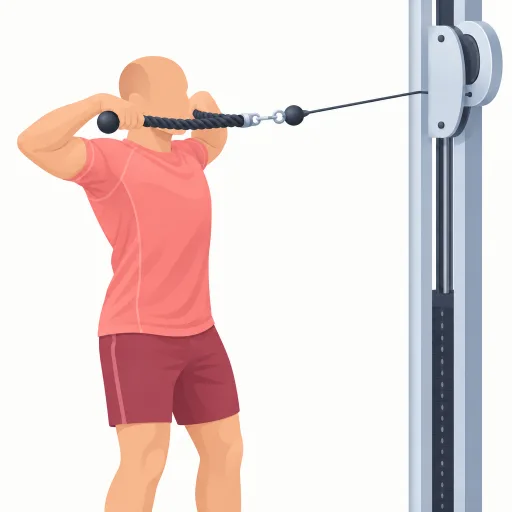
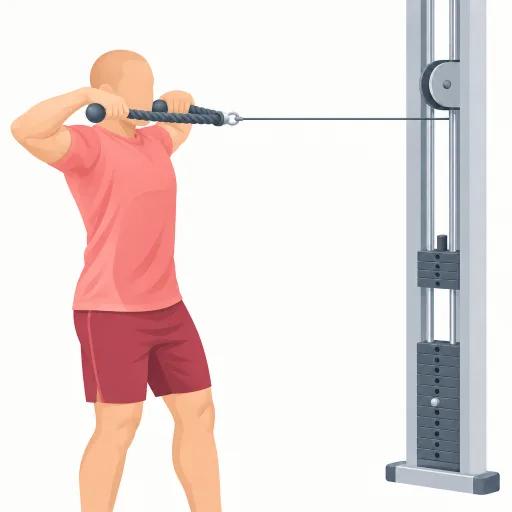
Repetir ilustraciones: face pull, jalón cerrado, pullover, remo en máquina, remo invertido y elevaciones laterales en polea

diff --git a/CLAUDE.md b/CLAUDE.md
@@ -90,5 +90,5 @@ Primero PWA para uso propio; después App Store (iPhone). Si funciona, se podrí
 ## Imágenes de ejercicios
 
 - **Cómo se generan:** a partir de las dos fotos (posición inicial y final) de free-exercise-db (dominio público, Unlicense), redibujadas con OpenAI (`images.edit`, el mismo modelo y la misma clave que usa china-history, en `china-history-api/.env`; la clave solo se usa en local, nunca en el repo ni en la app). La imagen inicial sale de la foto 0 y la final de la ilustración inicial más la foto 1, para que figura y encuadre no cambien entre las dos. Estilo: ilustración plana, atleta sin cara con camiseta salmón y pantalón rosa oscuro, material en gris azulado, **sin fondo de gimnasio** y solo el material del ejercicio (sacarlo del campo `equipment`; si se lista material genérico en el prompt, el modelo lo dibuja todo).
-- **Dónde viven:** `apps/mobile/assets/exercises/<nombre-del-ejercicio>_0.webp` y `_1.webp`, a 512 px y unos 12 KB cada una, y se registran por nombre en `lib/exercise-images.ts`. De momento hay 46: todo Pecho, buena parte de Espalda y de Hombros (hasta el press Arnold, sin «Remo pendlay» ni «Elevaciones frontales con barra», que no tienen equivalente fiable en free-exercise-db) más los encogimientos de hombros con barra (la lista completa está en `lib/exercise-images.ts`; «Dominadas asistidas en máquina» se hizo a partir de las fotos de dominadas con una máquina con plataforma para las rodillas, porque free-exercise-db solo tiene la versión con banda). Repetidas tras revisarlas: cruces en polea, encogimientos con barra, jalón tras nuca, pesos muertos, remo en máquina y elevaciones laterales en polea. Lecciones: en las máquinas de polea se dibuja la pila de pesas (en la segunda imagen las placas de arriba suben y se ve un hueco; sin pila no se entendía), agarres descritos como un cable simple, y en los pesos muertos «cuerpo entero con los pies visibles»; el peso muerto se alinea por los pies y se reduce (0,82, anclado abajo) en vez de recortar la cabeza. Los nueve primeros, de Pecho: press de banca con barra, con mancuernas y con agarre cerrado, fondos en paralelas, aperturas con mancuernas (Dumbbell Flyes), aperturas inclinadas (Incline Dumbbell Flyes), contractora (Butterfly), cruces en polea (Cable Crossover) y flexiones de brazos (Pushups); el registro está en `lib/exercise-images.ts`. **Sin suelo** en el prompt (si se dibuja una línea de suelo, cambia entre las dos imágenes y «se mueve»). **Regla de alineado automático** (mitad inferior del encuadre si el ejercicio tiene banco o pies fijos; imagen entera en máquinas; parte superior en dominadas): se acepta la imagen alineada solo si el error baja a menos de la mitad, la escala cambia como mucho un 20 %, el desplazamiento horizontal no pasa de 40 px y el vertical de 70; si no, se deja la imagen sin tocar. **Revisar la imagen final aunque el alineado se acepte**: en el peso muerto rumano y el press Arnold el ajuste (con escala 1,09-1,11) cortaba la cabeza o las mancuernas por el borde y se dejaron sin alinear a mano. Se genera una hoja con todas las superposiciones para revisarlas de un vistazo. **El alineado automático no siempre mejora**: en las flexiones, donde cambia la figura entera y no hay zona quieta, encogía la figura (escala 0,925) y descolocaba las manos; ahí se dejó la segunda imagen sin alinear. Comprobar siempre la superposición antes y después y quedarse con la mejor. **Imágenes sin menú de iOS:** al mantener pulsada una imagen, iOS abre una vista ampliada para copiarla y marca un marco; se evita con `pointerEvents: none`, `userSelect: none` y `-webkit-touch-callout: none` en la imagen (`exercise-motion.tsx`), en el recuadro y en `global.css`. En el prompt hay que indicar el material exacto de cada ejercicio. Al alinear, la zona de comparación es la mitad inferior en los press de banca; en los fondos, donde se mueve casi todo el cuerpo, se usa la imagen entera y lo que acaba coincidiendo es la estructura de barras. El resto se hará en tandas cuando guste el resultado. **Alinear la imagen final con la inicial:** aunque se pase la ilustración inicial como referencia, el modelo recoloca un poco la escena (en el press de banca, ~17 px en vertical) y al alternarlas parece que el banco sube y baja. Se corrige a posteriori: se busca el desplazamiento y la escala de la imagen final que mejor encajan con la inicial sobre la zona casi inmóvil (mitad inferior: banco y pies) y se re-renderiza desplazada; el error de coincidencia bajó de 1327 a 113. Hacerlo para cada ejercicio nuevo antes de guardarlo. Pendiente: emparejar los 133 nombres del catálogo con los de free-exercise-db.
+- **Dónde viven:** `apps/mobile/assets/exercises/<nombre-del-ejercicio>_0.webp` y `_1.webp`, a 512 px y unos 12 KB cada una, y se registran por nombre en `lib/exercise-images.ts`. De momento hay 46: todo Pecho, buena parte de Espalda y de Hombros (hasta el press Arnold, sin «Remo pendlay» ni «Elevaciones frontales con barra», que no tienen equivalente fiable en free-exercise-db) más los encogimientos de hombros con barra (la lista completa está en `lib/exercise-images.ts`; «Dominadas asistidas en máquina» se hizo a partir de las fotos de dominadas con una máquina con plataforma para las rodillas, porque free-exercise-db solo tiene la versión con banda). Repetidas tras revisarlas: cruces en polea, encogimientos con barra, jalón tras nuca, pesos muertos, remo en máquina y elevaciones laterales en polea. Lecciones: en las máquinas de polea se dibuja la pila de pesas (en la segunda imagen las placas de arriba suben y se ve un hueco; sin pila no se entendía), agarres descritos como un cable simple, y en los pesos muertos «cuerpo entero con los pies visibles»; en máquinas con pila solo suben las 3 placas de arriba, en las de dos columnas con cables cruzados (elevaciones laterales en polea) cada mano va a la columna contraria, y si el modelo devuelve dos paneles en una imagen se regenera esa con `images.edit` a partir de la buena; en el remo invertido, que la foto toma con la barra hacia la cámara, en vista lateral pura el modelo la dibujaba doble y confusa, y de punta con un solo poste quedaba rara; funciona una vista en tres cuartos (cámara girada ~40°, la barra como una diagonal entre dos postes, «ONLY ONE bar»); el peso muerto se alinea por los pies y se reduce (0,82, anclado abajo) en vez de recortar la cabeza. Los nueve primeros, de Pecho: press de banca con barra, con mancuernas y con agarre cerrado, fondos en paralelas, aperturas con mancuernas (Dumbbell Flyes), aperturas inclinadas (Incline Dumbbell Flyes), contractora (Butterfly), cruces en polea (Cable Crossover) y flexiones de brazos (Pushups); el registro está en `lib/exercise-images.ts`. **Sin suelo** en el prompt (si se dibuja una línea de suelo, cambia entre las dos imágenes y «se mueve»). **Regla de alineado automático** (mitad inferior del encuadre si el ejercicio tiene banco o pies fijos; imagen entera en máquinas; parte superior en dominadas): se acepta la imagen alineada solo si el error baja a menos de la mitad, la escala cambia como mucho un 20 %, el desplazamiento horizontal no pasa de 40 px y el vertical de 70; si no, se deja la imagen sin tocar. **Revisar la imagen final aunque el alineado se acepte**: en el peso muerto rumano y el press Arnold el ajuste (con escala 1,09-1,11) cortaba la cabeza o las mancuernas por el borde y se dejaron sin alinear a mano. Se genera una hoja con todas las superposiciones para revisarlas de un vistazo. **El alineado automático no siempre mejora**: en las flexiones, donde cambia la figura entera y no hay zona quieta, encogía la figura (escala 0,925) y descolocaba las manos; ahí se dejó la segunda imagen sin alinear. Comprobar siempre la superposición antes y después y quedarse con la mejor. **Imágenes sin menú de iOS:** al mantener pulsada una imagen, iOS abre una vista ampliada para copiarla y marca un marco; se evita con `pointerEvents: none`, `userSelect: none` y `-webkit-touch-callout: none` en la imagen (`exercise-motion.tsx`), en el recuadro y en `global.css`. En el prompt hay que indicar el material exacto de cada ejercicio. Al alinear, la zona de comparación es la mitad inferior en los press de banca; en los fondos, donde se mueve casi todo el cuerpo, se usa la imagen entera y lo que acaba coincidiendo es la estructura de barras. El resto se hará en tandas cuando guste el resultado. **Alinear la imagen final con la inicial:** aunque se pase la ilustración inicial como referencia, el modelo recoloca un poco la escena (en el press de banca, ~17 px en vertical) y al alternarlas parece que el banco sube y baja. Se corrige a posteriori: se busca el desplazamiento y la escala de la imagen final que mejor encajan con la inicial sobre la zona casi inmóvil (mitad inferior: banco y pies) y se re-renderiza desplazada; el error de coincidencia bajó de 1327 a 113. Hacerlo para cada ejercicio nuevo antes de guardarlo. Pendiente: emparejar los 133 nombres del catálogo con los de free-exercise-db.
 
